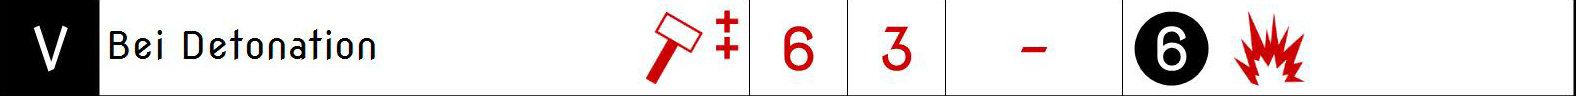
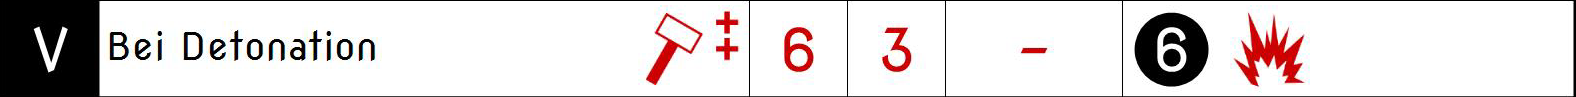
Abbildungen der Einheitenkarte

diff --git a/Regeln/Regelbuch.md b/Regeln/Regelbuch.md
@@ -830,13 +830,13 @@ Um Schaden abzuwehren gibt es verschiedene Möglichkeiten wie bspw. Rüstung, Sc
 
 Ein Schadensprofil wird immer durch genau einen Schadenstyp (z.B. Kinetik), die Stärke, den Schaden und eventuellen Effekten angegeben.
 
-![schadensprofil](Grafiken/Abbildungen/schadensprofil.png)
+![schadensprofil](Grafiken/Abbildungen/schadensprofil.png){width="500pt"}
 
 ### Rüstungsprofil
 
 Rüstungen werden immer durch ein oder mehrere Rüstungstypen (z.B. Stich), den Schutz und eventuellen Effekten angegeben.
 
-![rüstungsprofil](Grafiken/Abbildungen/rüstungsprofil.png)
+![rüstungsprofil](Grafiken/Abbildungen/rüstungsprofil.png){width="500pt"}
 
 ### Schadens- / Rüstungstypen
 
@@ -1027,7 +1027,7 @@ Die Anzahl an Bändern ist dabei immer 4.
 
     Für einen Menschen mit KO von 5:
 
-    ![Wurfwaffe](Grafiken/Abbildungen/wurfwaffe.jpg)
+    ![Wurfwaffe](Grafiken/Abbildungen/wurfwaffe.jpg){width="500pt"}
 
 ### Waffenklassen
 
@@ -1063,7 +1063,7 @@ Bei jeder Verwendung **muss** ein Marker gestrichen werden.
 
     Für eine Schockgranate die 2x verwendet werden kann.
 
-    ![Einmalnutzung Waffe](Grafiken/Abbildungen/einmalnutzung_waffe.jpg)
+    ![Einmalnutzung Waffe](Grafiken/Abbildungen/einmalnutzung_waffe.jpg){width="500pt"}
 
 ### Beispiele für Waffenklassen
 
@@ -1448,7 +1448,7 @@ Die Stufe des Schadenstyps und die Waffenklasse sind abhängig von der größe d
 
     Für einen Infanteristen mit einer KO von 5.
 
-    ![unbewaffnet](Grafiken/Abbildungen/unbewaffnet.png)
+    ![unbewaffnet](Grafiken/Abbildungen/unbewaffnet.png){width="500pt"}
 
 ## Tarnung
 
@@ -1566,7 +1566,7 @@ Bei jeder Verwendung **muss** ein Marker gestrichen werden.
 
     Für ein medizinisches Spray das 3x verwendet werden kann.
 
-    ![Einmalnutzung Ausrüstung](Grafiken/Abbildungen/einmalnutzung_ausrüstung.jpg)
+    ![Einmalnutzung Ausrüstung](Grafiken/Abbildungen/einmalnutzung_ausrüstung.jpg){width="500pt"}
 
 ## Mechs & Kolosse
 
@@ -1662,7 +1662,7 @@ Nach der Detonation wird das Modell vom Spielfeld entfernt.
 
     Für einen Mech mit einer KO von 6.
 
-    ![detonation](Grafiken/Abbildungen/detonation.png)
+    ![detonation](Grafiken/Abbildungen/detonation.png){width="500pt"}
 
 ## Drohnen
 
